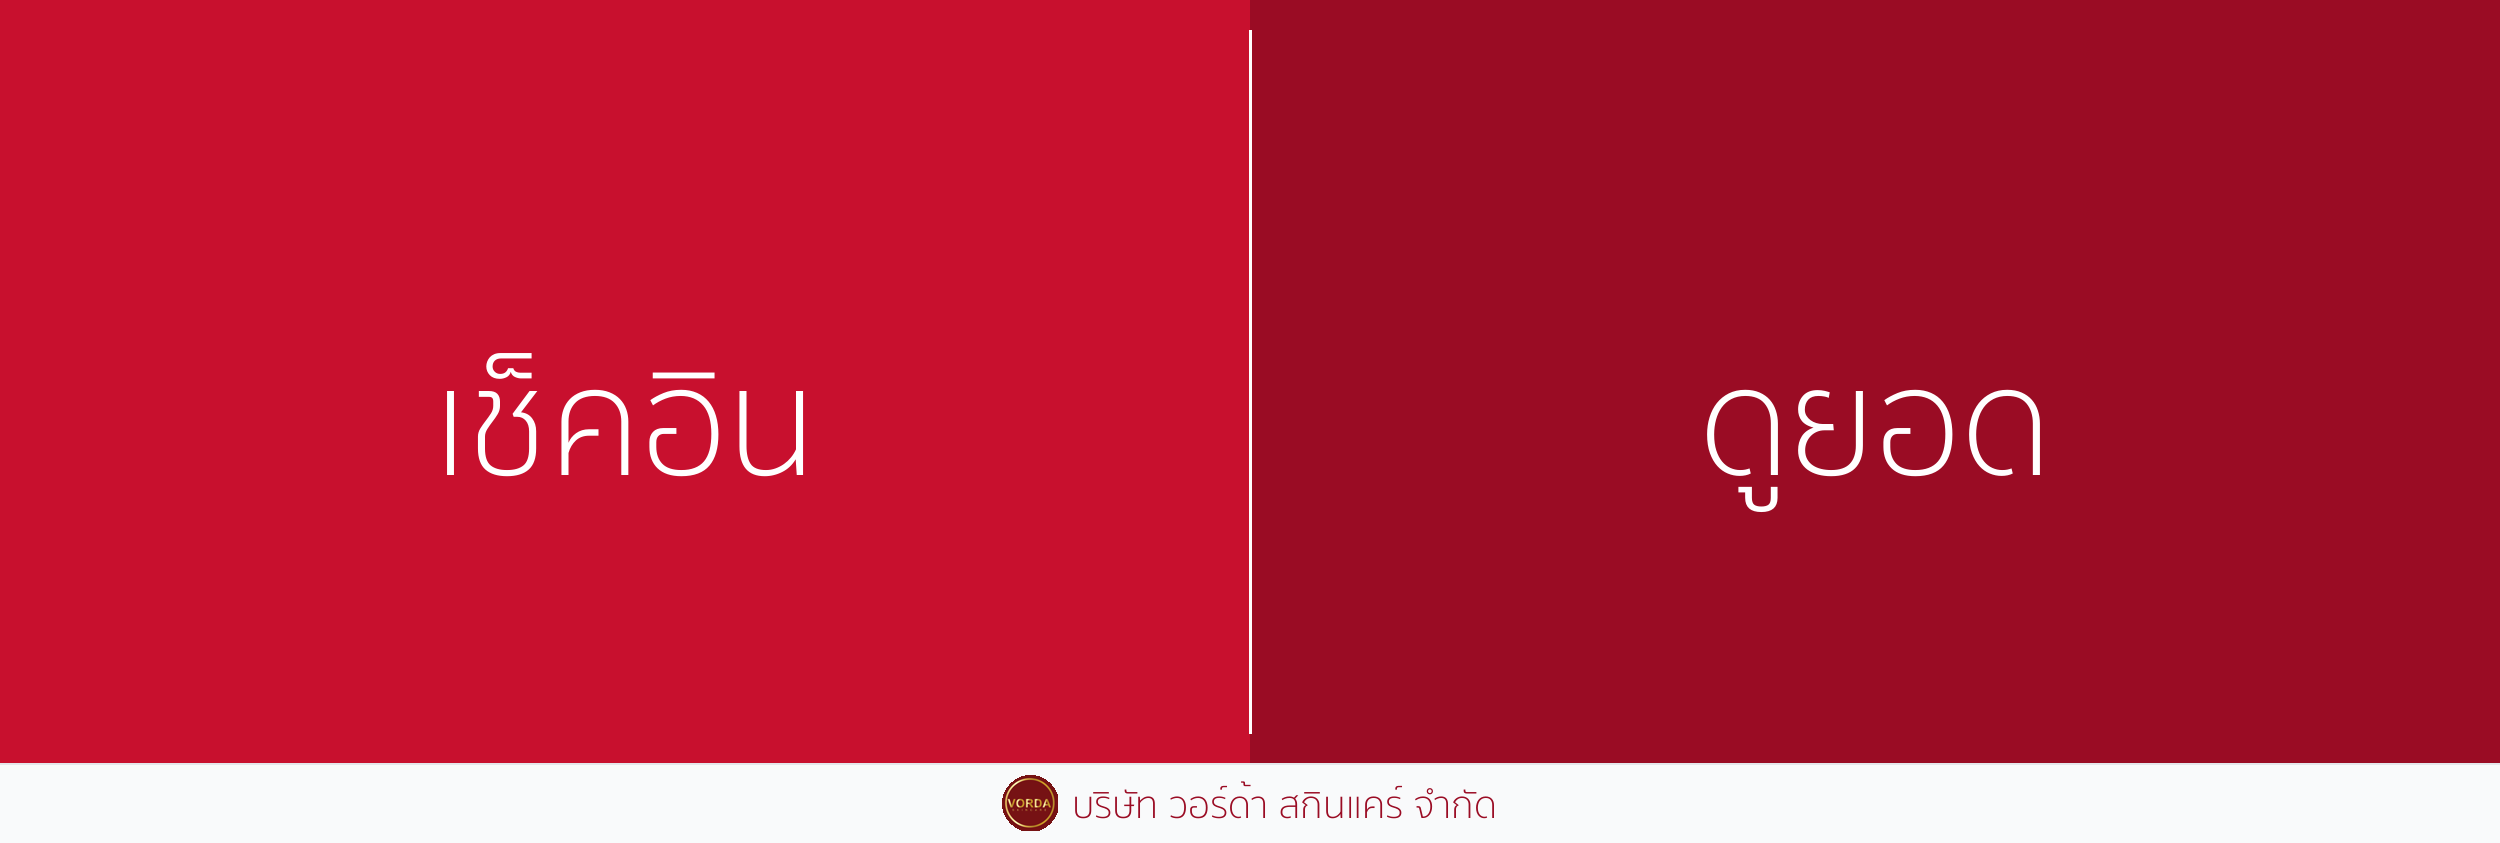
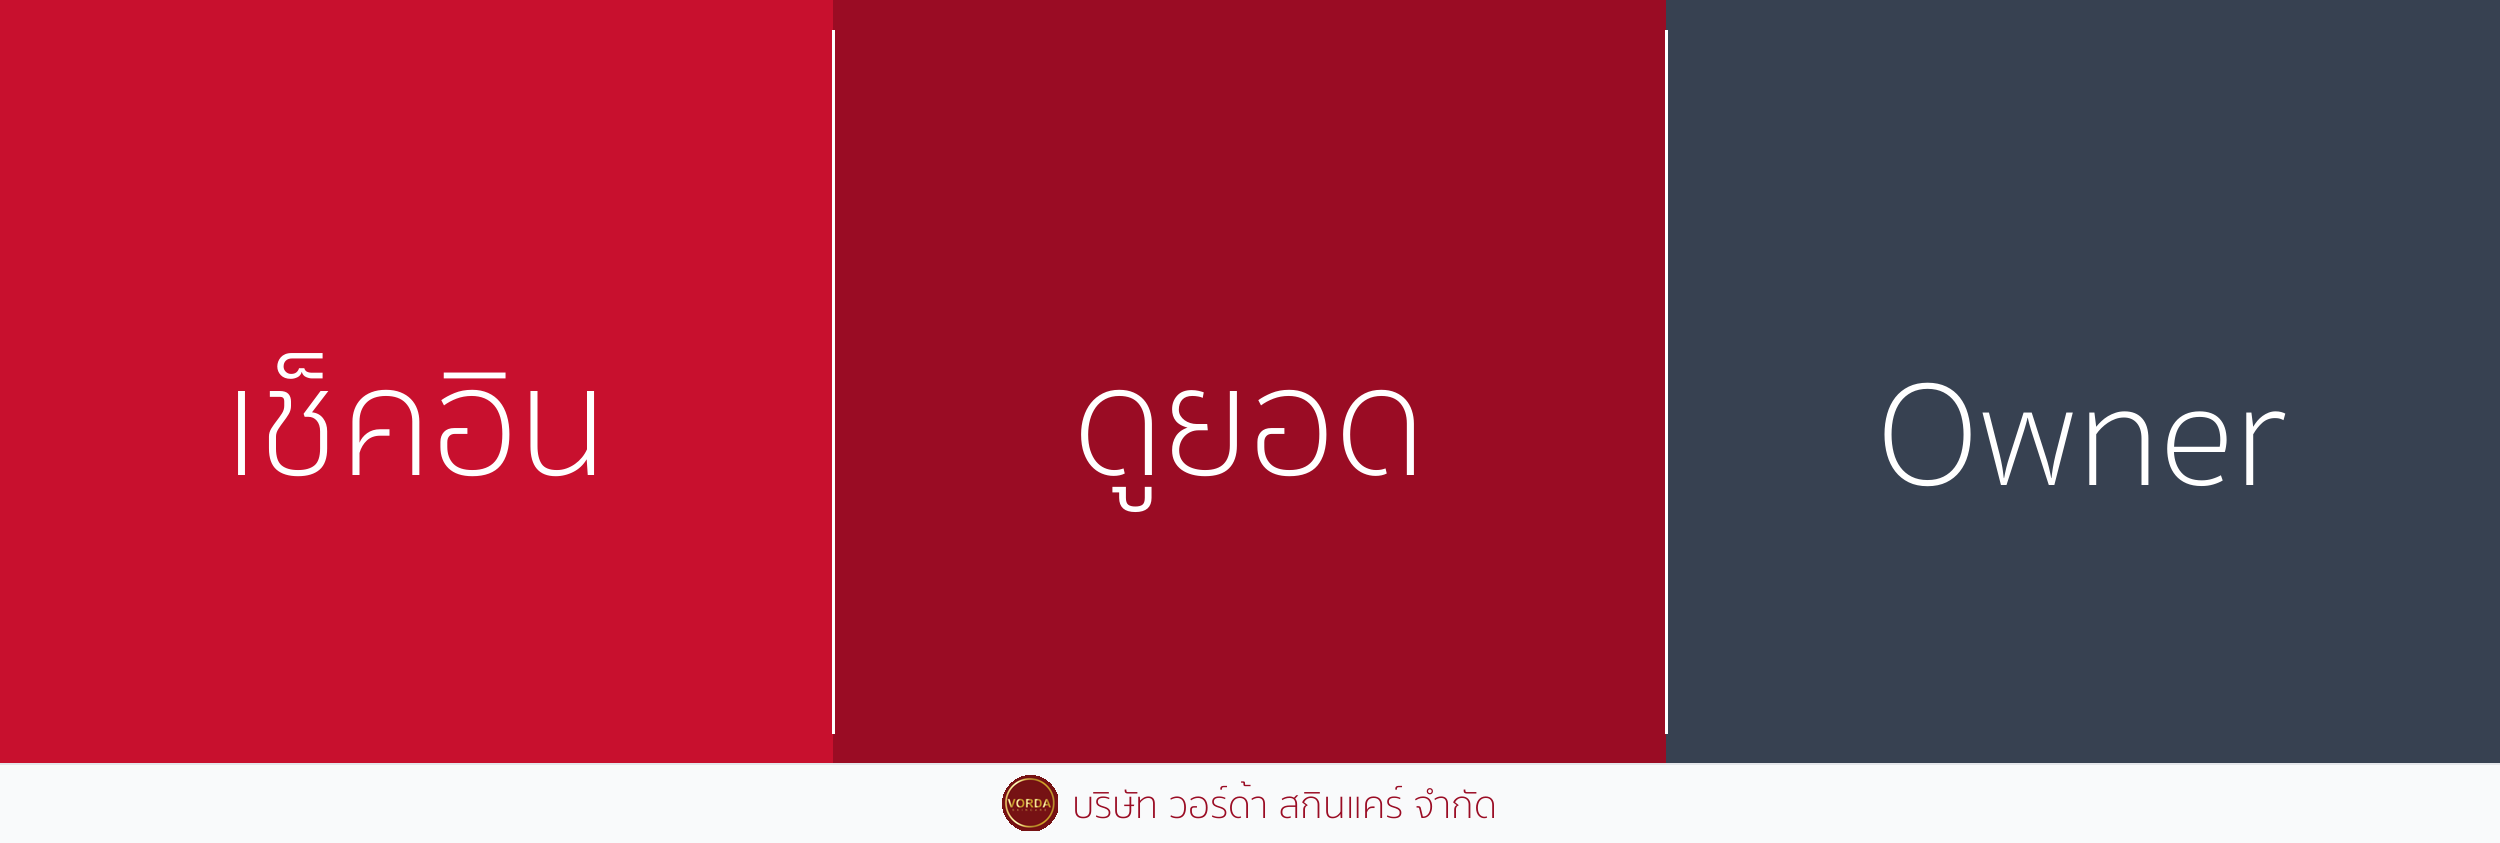
feat: rich menu 3 ปุ่ม (เช็คอิน/ดูยอด/Owner) + admin error เป็น 'คุณไม่มีสิทธิ์เข้าถึงหน้านี้'

diff --git a/liff/admin.html b/liff/admin.html
@@ -182,7 +182,7 @@
         renderList(result.employees, result.period);
       } catch (e) {
         if (e.code === 'not_owner') {
-          showError(errEl, 'เฉพาะเจ้าของเท่านั้นที่ใช้หน้านี้ได้');
+          showError(errEl, 'คุณไม่มีสิทธิ์เข้าถึงหน้านี้');
           listEl.innerHTML = '';
         } else {
           showError(errEl, e.message || e.code);

diff --git a/scripts/setup_rich_menu.py b/scripts/setup_rich_menu.py
@@ -21,6 +21,7 @@ from PIL import Image, ImageDraw, ImageFont
 LIFF_REGISTER = "2010027935-yGV4yPSO"
 LIFF_CHECKIN = "2010027935-VNfQm4KC"
 LIFF_BALANCE = "2010027935-GqOSphZC"
+LIFF_ADMIN   = "2010027935-J0G7Diq4"
 
 MENU_NAME = "partime-checkin-main"
 IMAGE_PATH = os.path.join(os.path.dirname(__file__), "rich_menu.png")
@@ -31,12 +32,13 @@ WIDTH = 2500
 HEIGHT = 843
 
 # cherry red palette — บริษัท วอร์ด้า สกินแคร์ จำกัด
-# 2 sections (ลงทะเบียนใช้ bot command "ลงทะเบียน" แทน — ใช้ไม่บ่อย)
+# 3 sections — ปุ่ม Owner ขวาสุด สีต่างเพื่อแยกชัด
 SECTIONS = [
     {"label": "เช็คอิน",   "color": (200, 16,  46), "liff": LIFF_CHECKIN},
     {"label": "ดูยอด",     "color": (154, 12,  36), "liff": LIFF_BALANCE},
+    {"label": "Owner",     "color": ( 55, 65,  81), "liff": LIFF_ADMIN},  # dark neutral
 ]
-SECTION_W = WIDTH // len(SECTIONS)  # auto: 2 sections = 1250 each
+SECTION_W = WIDTH // len(SECTIONS)  # 3 sections ≈ 833 each
 BRAND_TEXT = "บริษัท วอร์ด้า สกินแคร์ จำกัด"
 
 THAI_FONT_PATHS = [
